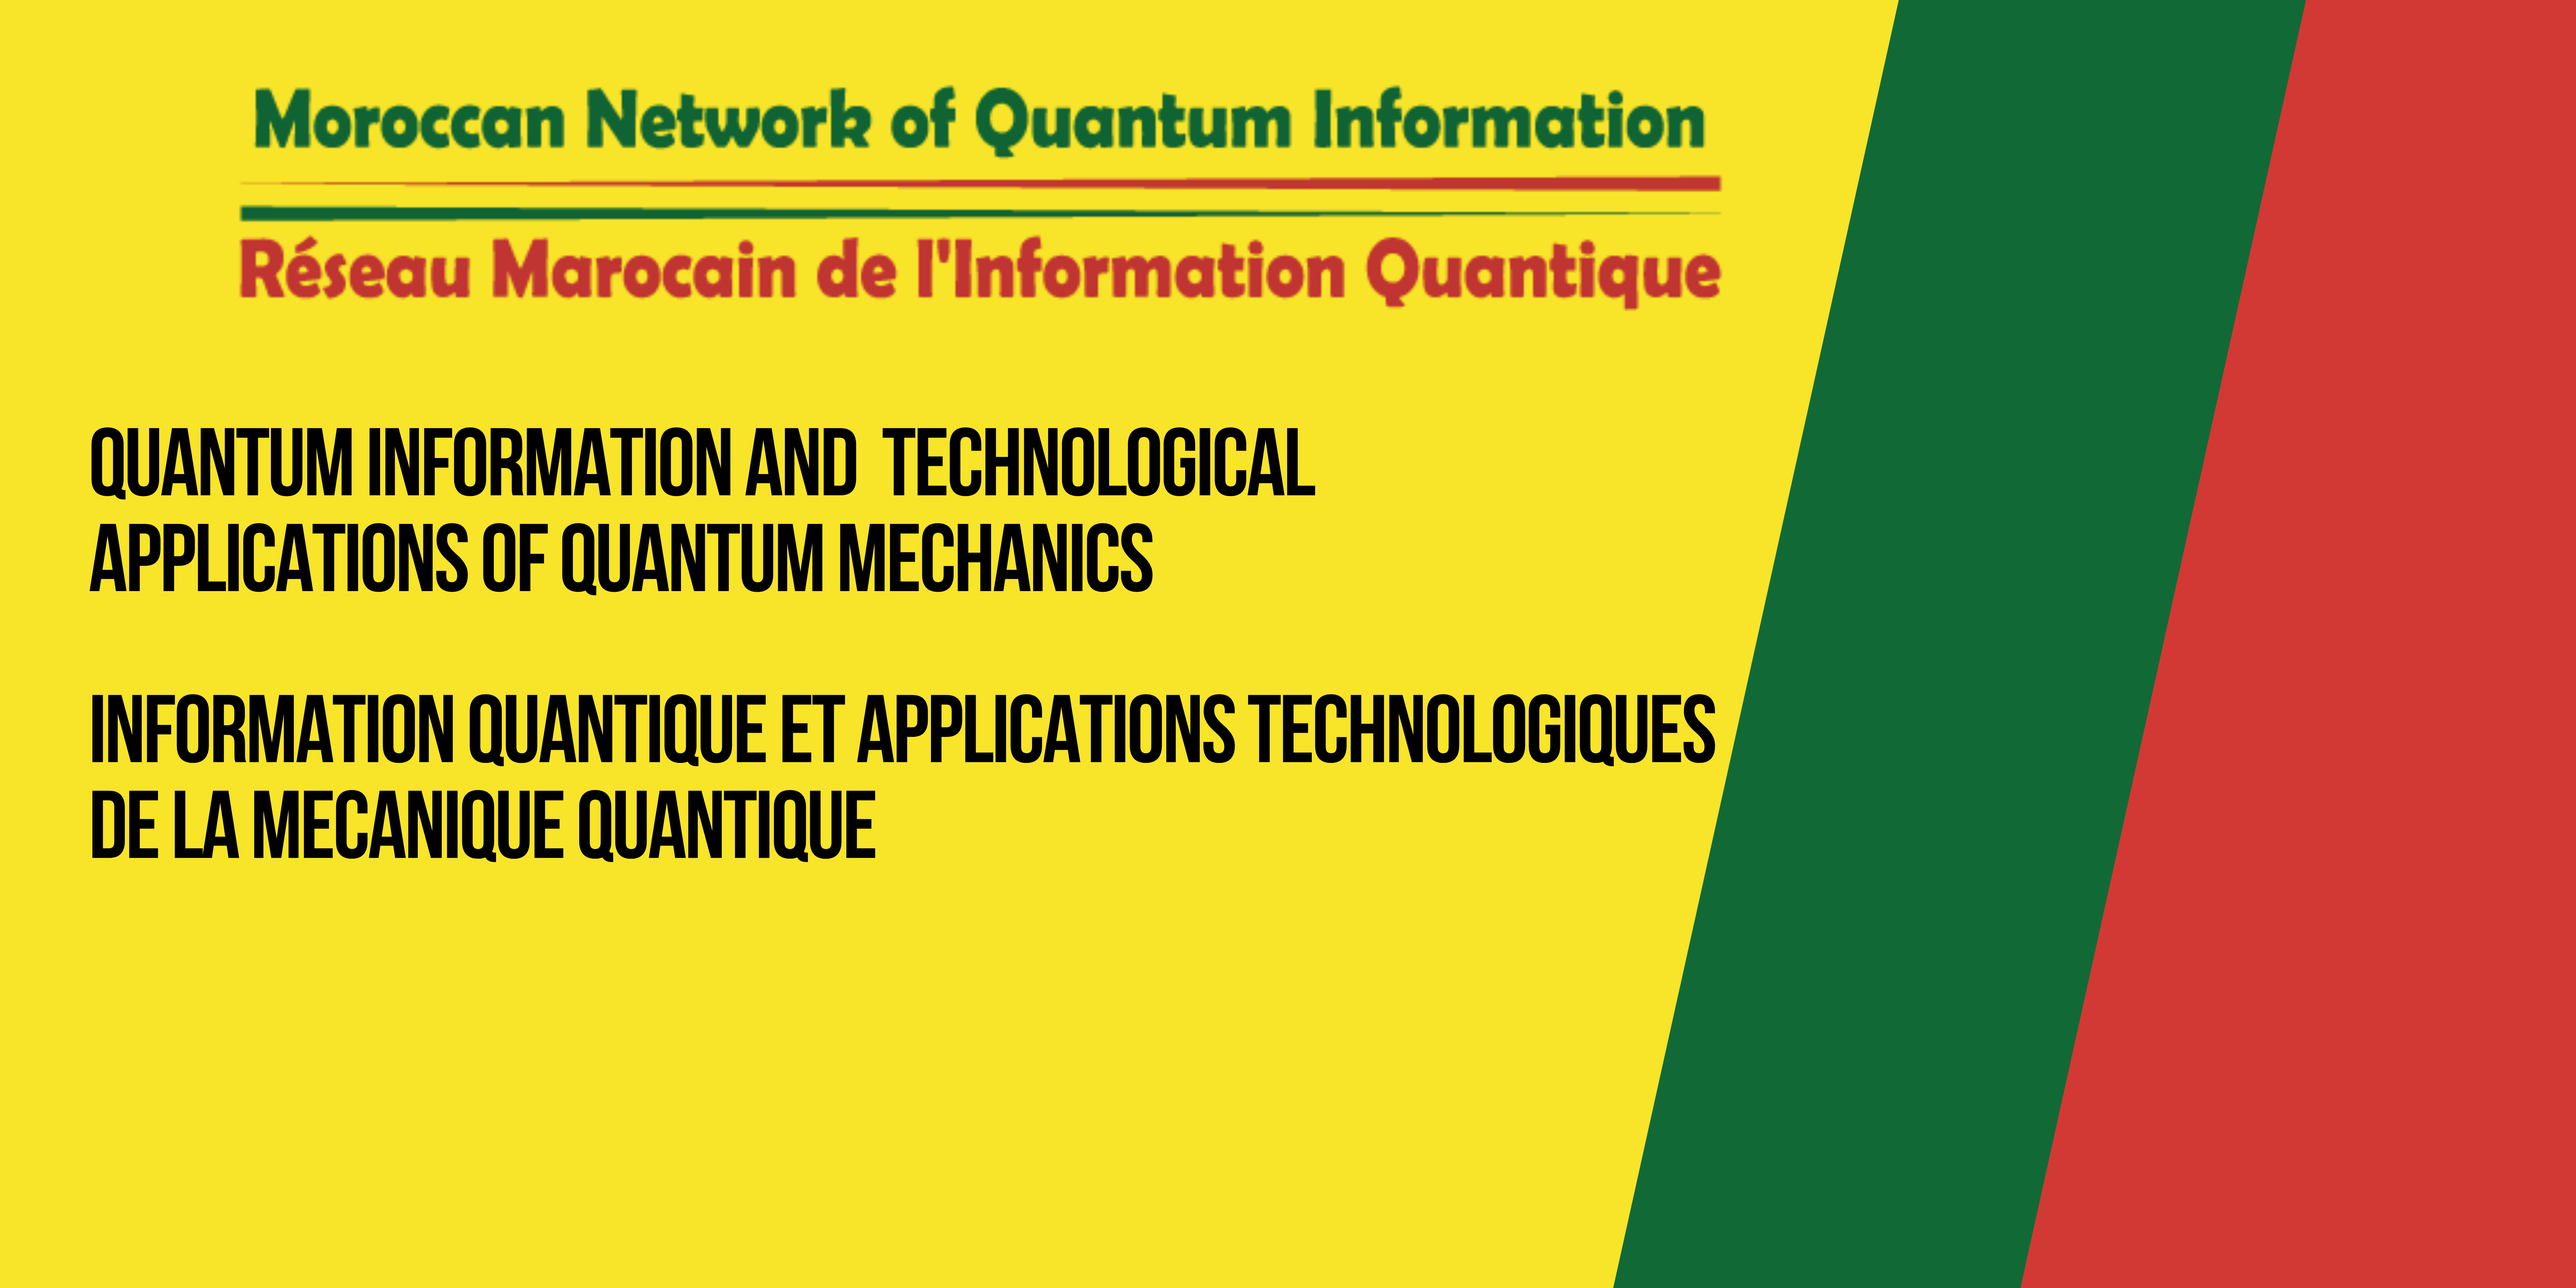
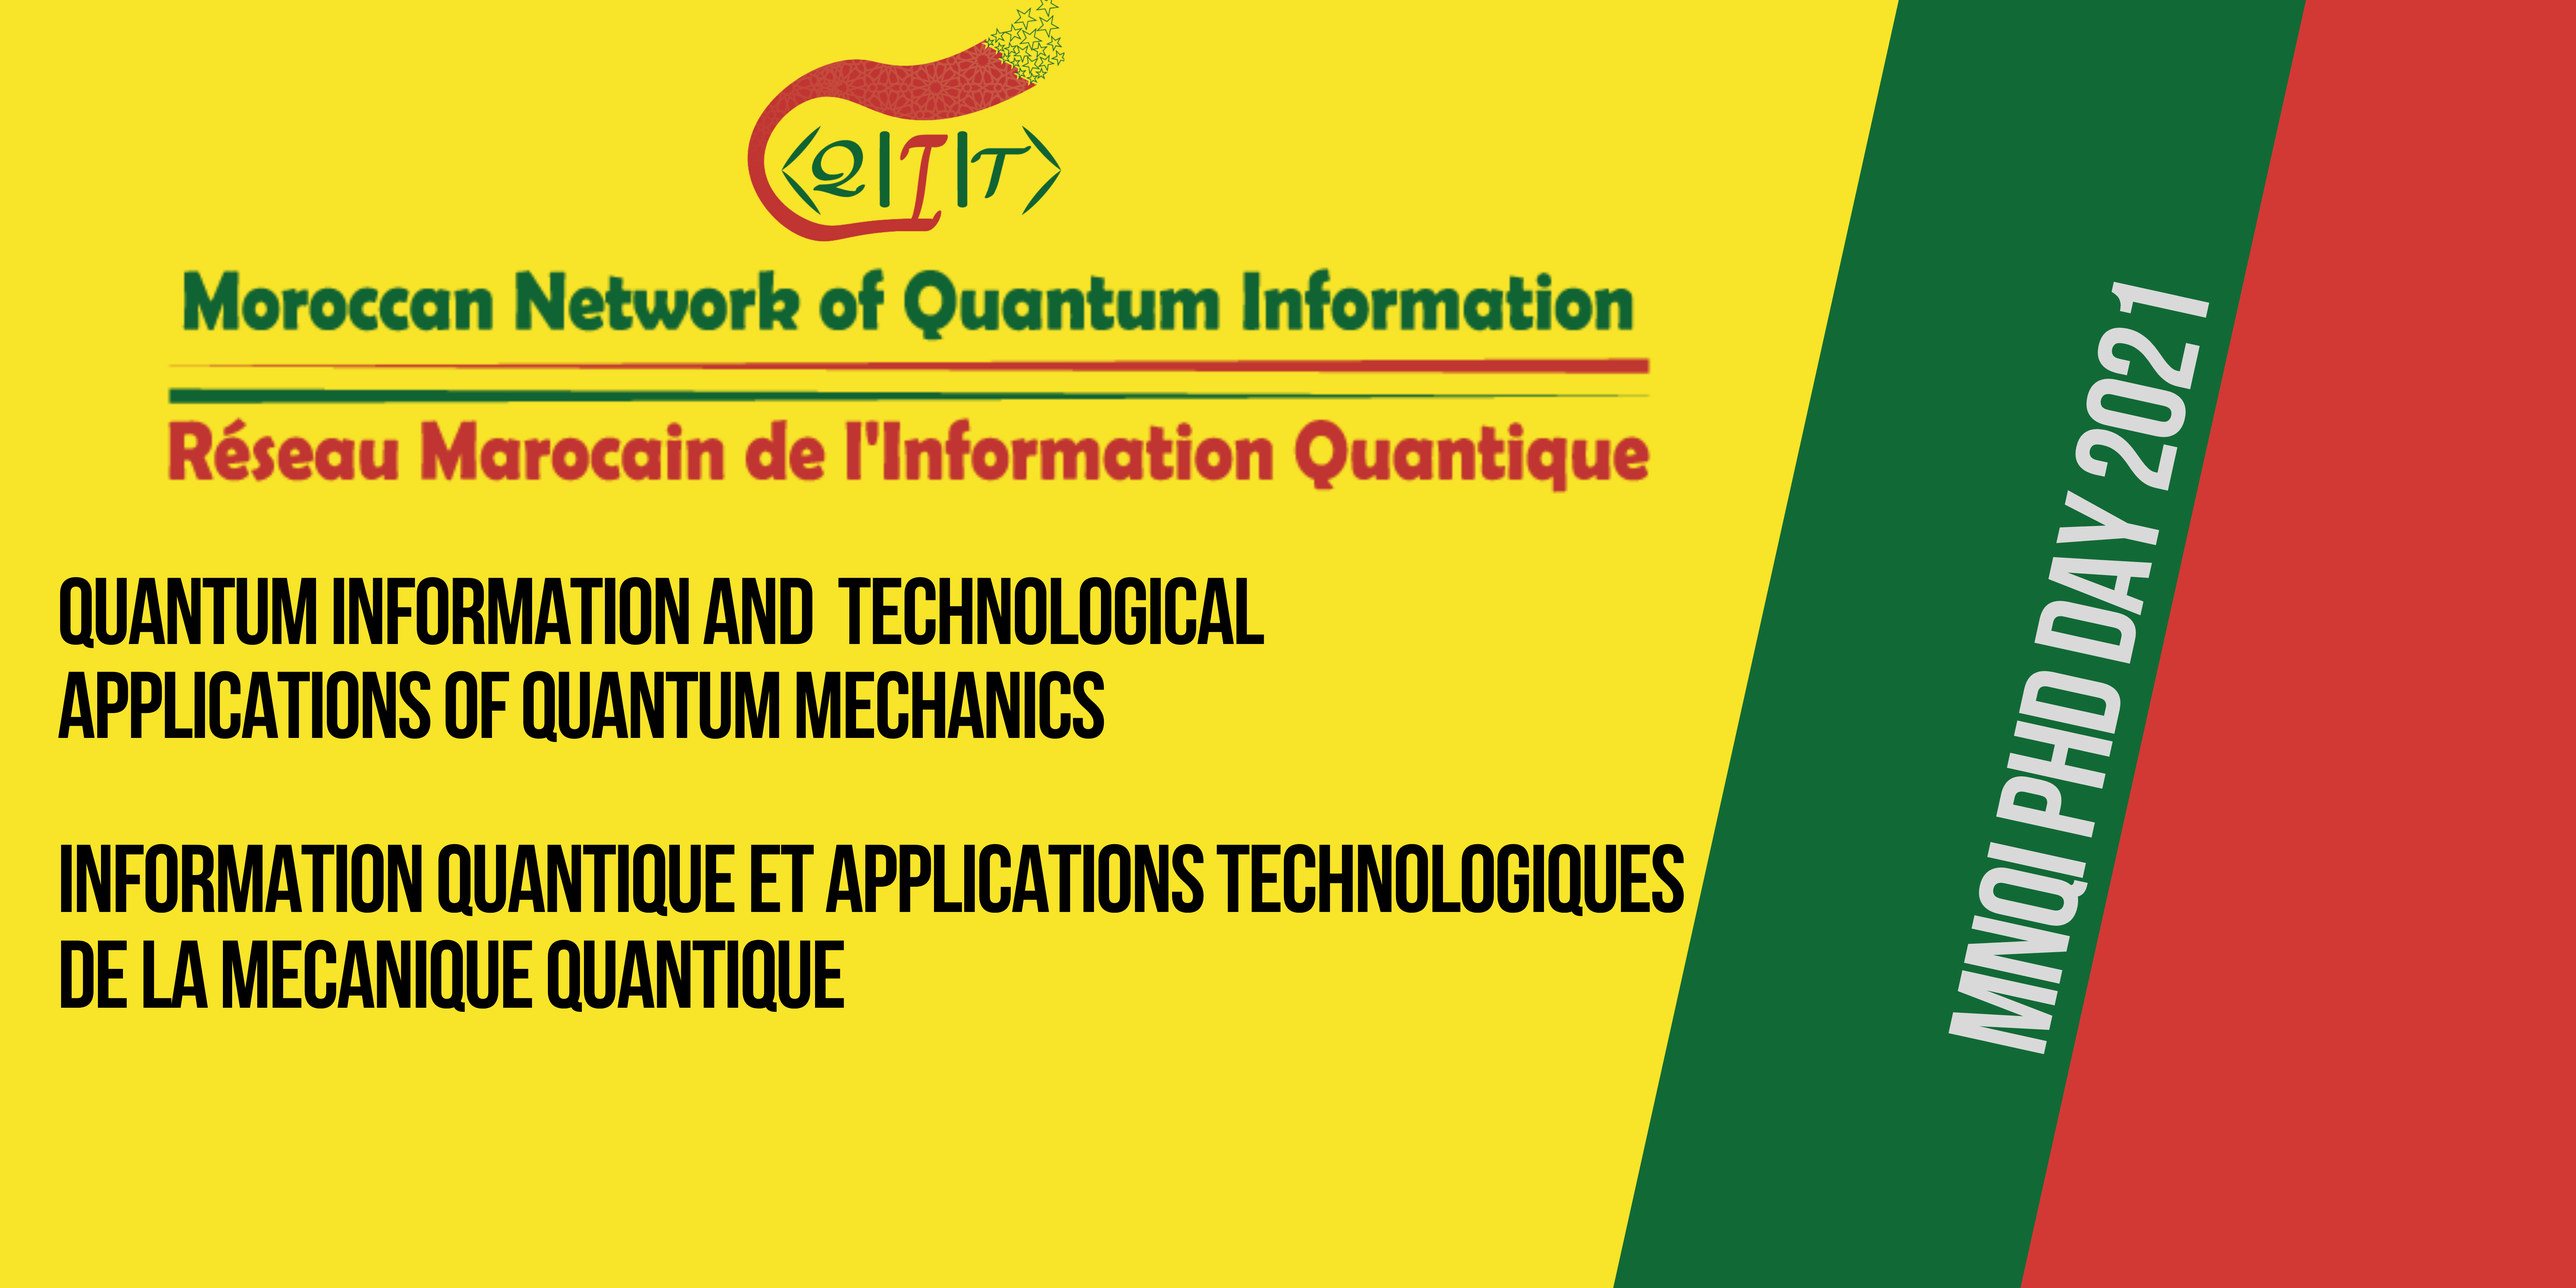
update

Changed region(s): [[0.0, 0.0, 0.6875, 0.7812], [0.75, 0.2188, 0.875, 0.8125]]

diff --git a/phday.html b/phday.html
@@ -3,7 +3,7 @@
 <!------------------------------------------------------------------------- HEAD -------------------------------------------------------------------------->
 <head>
         <meta charset="utf-8"/>
-        <title>Moroccan Network of Quantum Information</title>
+        <title>MNQI PhD Day 2021</title>
         <meta name="viewport" content="width=device-width, initial-scale=1.0"/>
         
         <!-- Font Awesome Icons 
@@ -147,7 +147,11 @@
 }
 </style>
 
-
+<center>
+<hr class="new2">
+         <h1 style="color:gray;font-size:60px;">MNQI PhD Day 2021<br> Journée Doctorale 2021 du Réseau Marocain de l'Information Quantique</h1>      
+<hr class="new2">
+</center>
 
 
 <center>
@@ -181,21 +185,17 @@
 
 <center>
 <hr class="new2">
-         <h1 style="color:gray;font-size:40px;">ABOUT</h1>      
+         <h1 style="color:gray;font-size:30px;">ABOUT</h1>      
 <hr class="new2">
 </center>
 <br>
 
 <div class="wp-block-image"><figure class="alignleft size-large"><img loading="lazy" width="212" height="212" src="./images/qqqqq.jpg" alt="" class="wp-image-5895" srcset="./images/qqqqq.jpg, ./talks/qqqqq.jpg 150w, ./images/qqqqq.jpg 100w" sizes="(max-width: 212px) 100vw, 212px"></figure></div>
 
-
-In order to achieve revolutionary new quantum technologies, researchers around the world are investigating quantum phenomena to better understand and harness their power to serve humanity.
+The goal of MNQI PhD Day is to offer PhD students and young researchers, working on quantum science and technology, an opportunity to present current results in an effort to answer open challenges and advances across all subfields of quantum science and technology, including quantum information, quantum computing, and the other applications of quantum mechanics.
 <br>
 <br>
-The goal of this online national meeting is to offer Moroccan PhD researchers working in quantum science and technology an opportunity to present current results in an effort to answer open challenges and advances across all subfields of quantum science and technology, including quantum information, quantum computing, and the other applications of quantum mechanics.
-<br>
-<br>
-The event will include Ph.D and Ph.D students talks, and discussion sessions, where all participants can present their work and interact with others.
+The PhD day is a chance for  PhD students and young researchers to present research to their peers as well as to more experienced researchers.
 
 <br><br>
 
@@ -228,7 +228,7 @@ The event will include Ph.D and Ph.D students talks, and discussion sessions, wh
 
 <center>
 <hr class="new2">
-         <h1 style="color:gray;font-size:40px;">ORGANIZING COMMITTEE</h1>      
+         <h1 style="color:gray;font-size:30px;">ORGANIZING COMMITTEE</h1>      
 <hr class="new2">
 </center>
 <center>
@@ -237,64 +237,21 @@ The event will include Ph.D and Ph.D students talks, and discussion sessions, wh
 ➲ This event is organized by the Moroccan Network of Quantum Information
 </center>
 
+
+<center>
+<img width="912" height="1912" src="./images/PhDDay.png" alt="" srcset="./images/PhDDay.png" sizes="(max-width: 212px) 100vw, 212px">
+</center>
+
 <br>
 <br>
 
 
 
-Registration and submission of the title and abstract of the talk are required for all participants. Therefore, please use the application form on the page to express your interest. 
+Registration and submission of the title and abstract of the talk are required for participants who want to present their work. Please use the application form  below. 
 <center>
-<iframe src="https://docs.google.com/forms/d/e/1FAIpQLSczG7BmW8TPsFXqB4H7C2PFETx95K4cKHkqj_i-W4lianwSmQ/viewform?embedded=true" width="740" height="1458" frameborder="0" marginheight="0" marginwidth="0">Chargement…</iframe>
+<iframe src="https://docs.google.com/forms/d/e/1FAIpQLSczG7BmW8TPsFXqB4H7C2PFETx95K4cKHkqj_i-W4lianwSmQ/viewform?embedded=true" width="840" height="1858" frameborder="0" marginheight="0" marginwidth="0">Chargement…</iframe>
 </center>
-<!--
-<center>
-<img width="712" height="712" src="./talks/Talks2.jpg" alt="" srcset="./talks/Talks2.jpg" sizes="(max-width: 212px) 100vw, 212px">
-</center>
--->
-
-<br><br><br>
-
-            
-        </main><!-- #main -->
-    </div><!-- #primary -->
-</div>
-
-
-
-
-
-
-
-
-
-
-
-
-
-
-
-
-
-
-
-
-
-
-
-
-
-
-
-
-
 </section>
-
-
-
-
-
-
-<!------------------------------------------------------------------------- SCRIPTS -------------------------------------------------------------------------->
 
 </body>        
 
